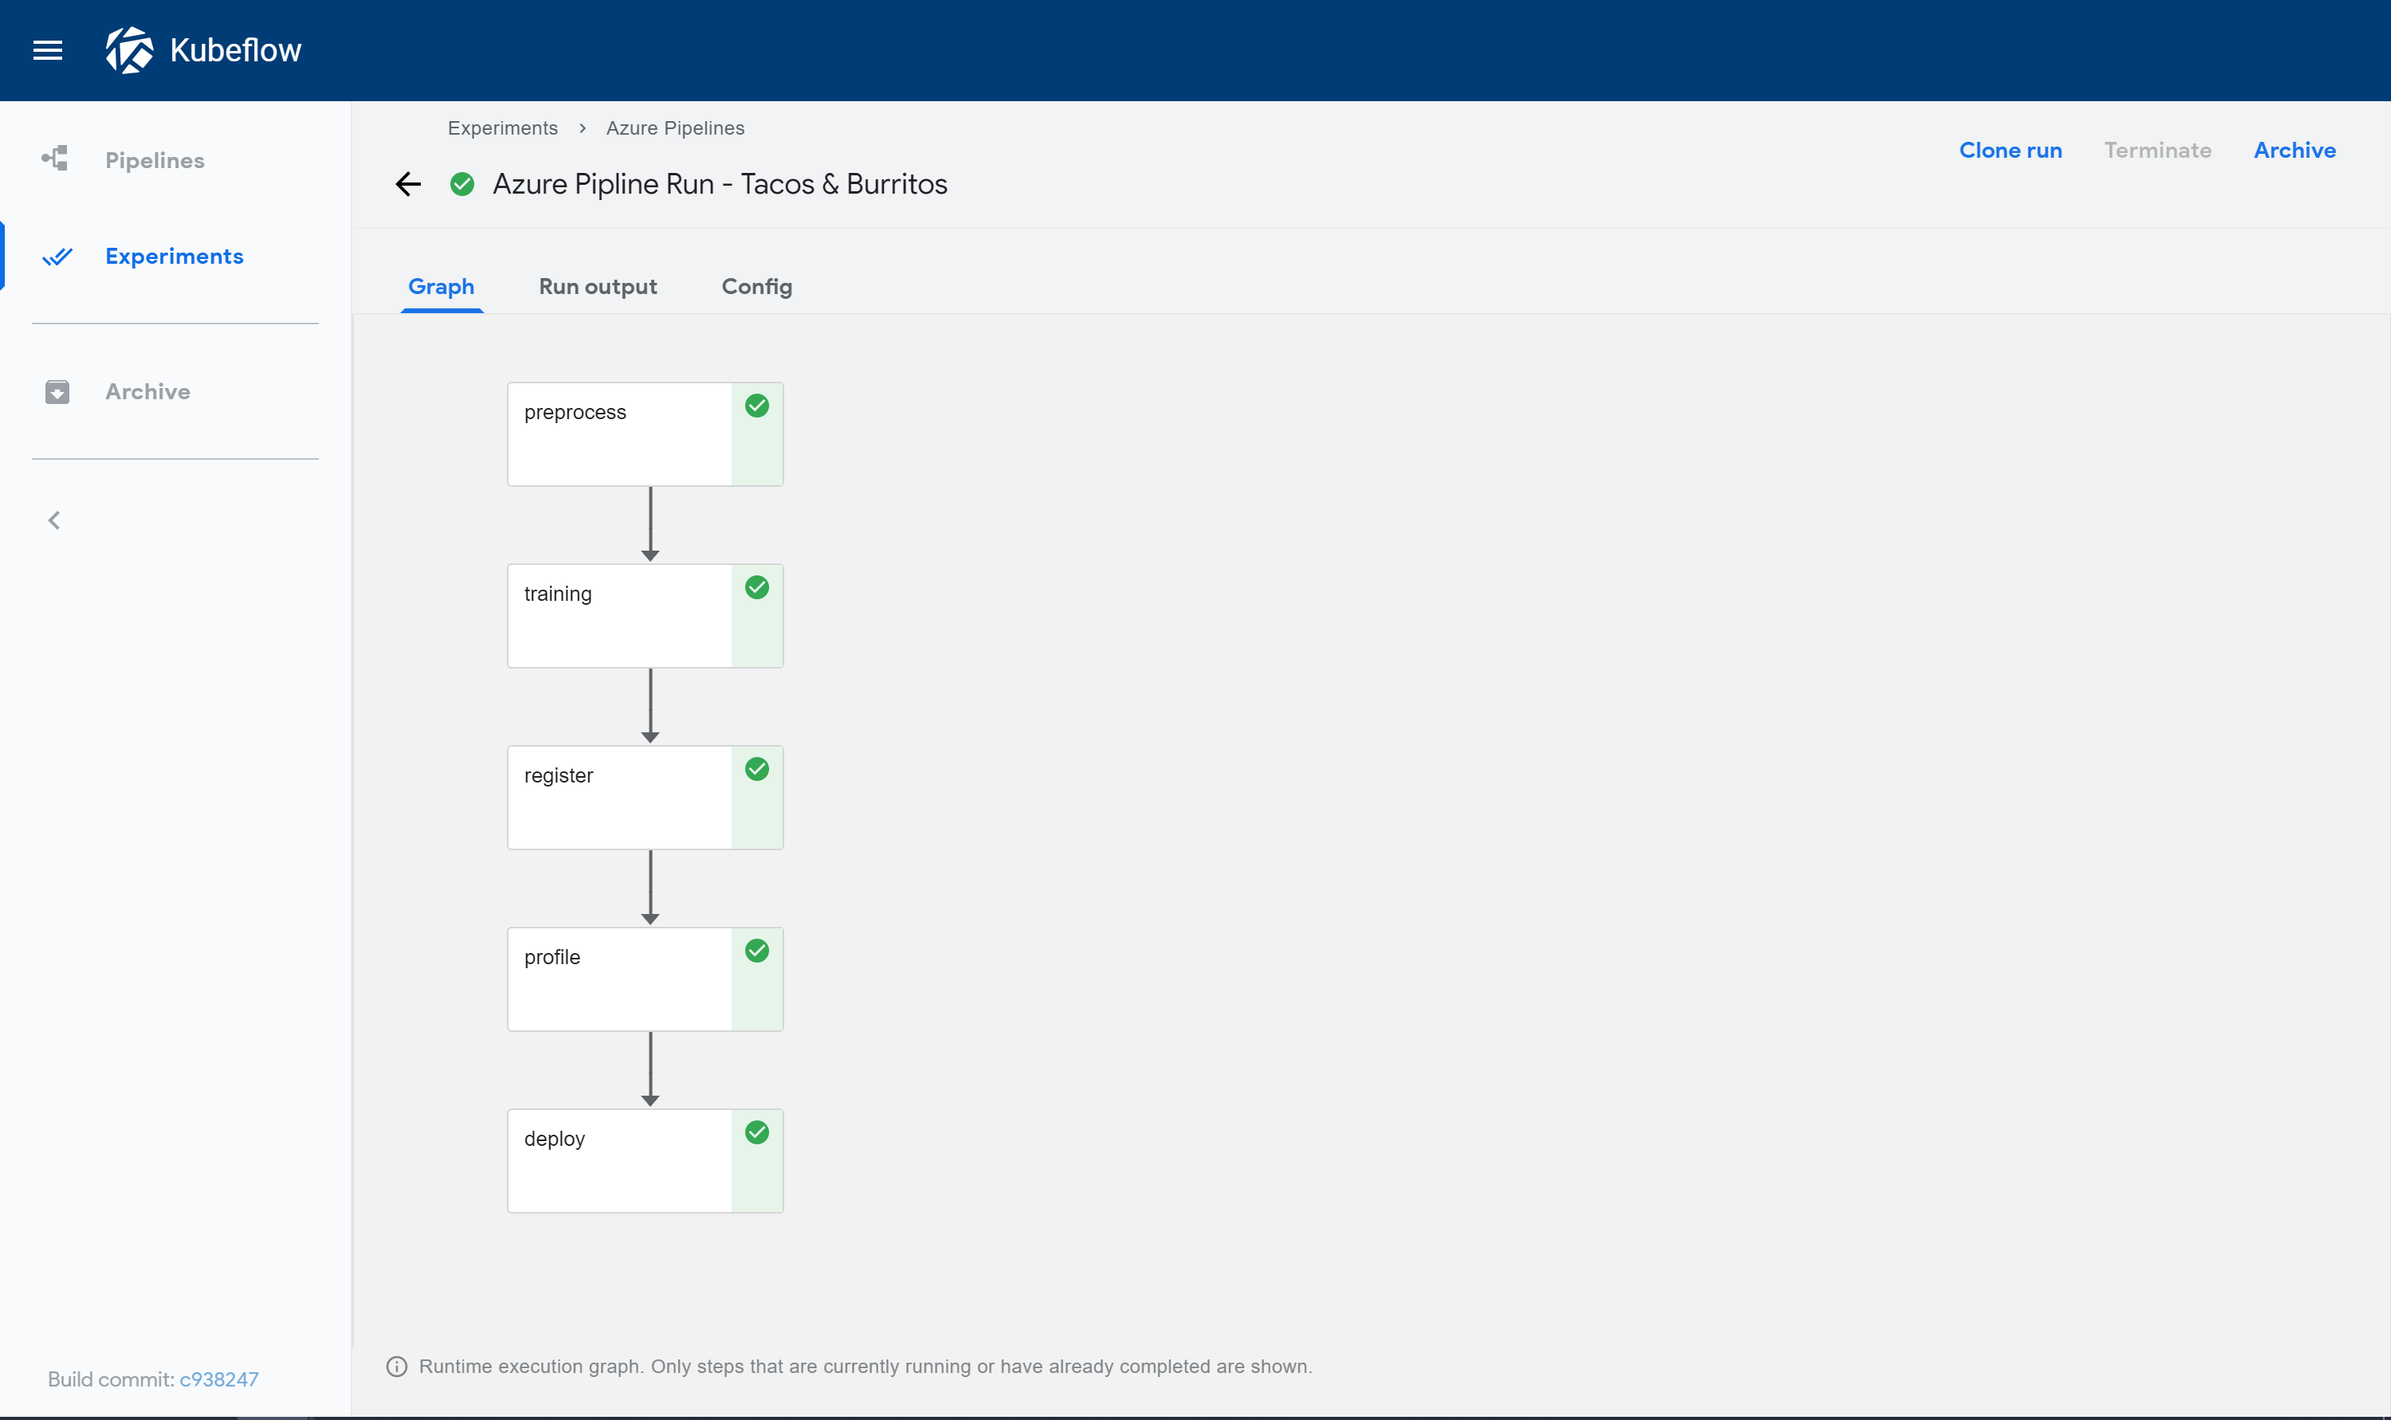
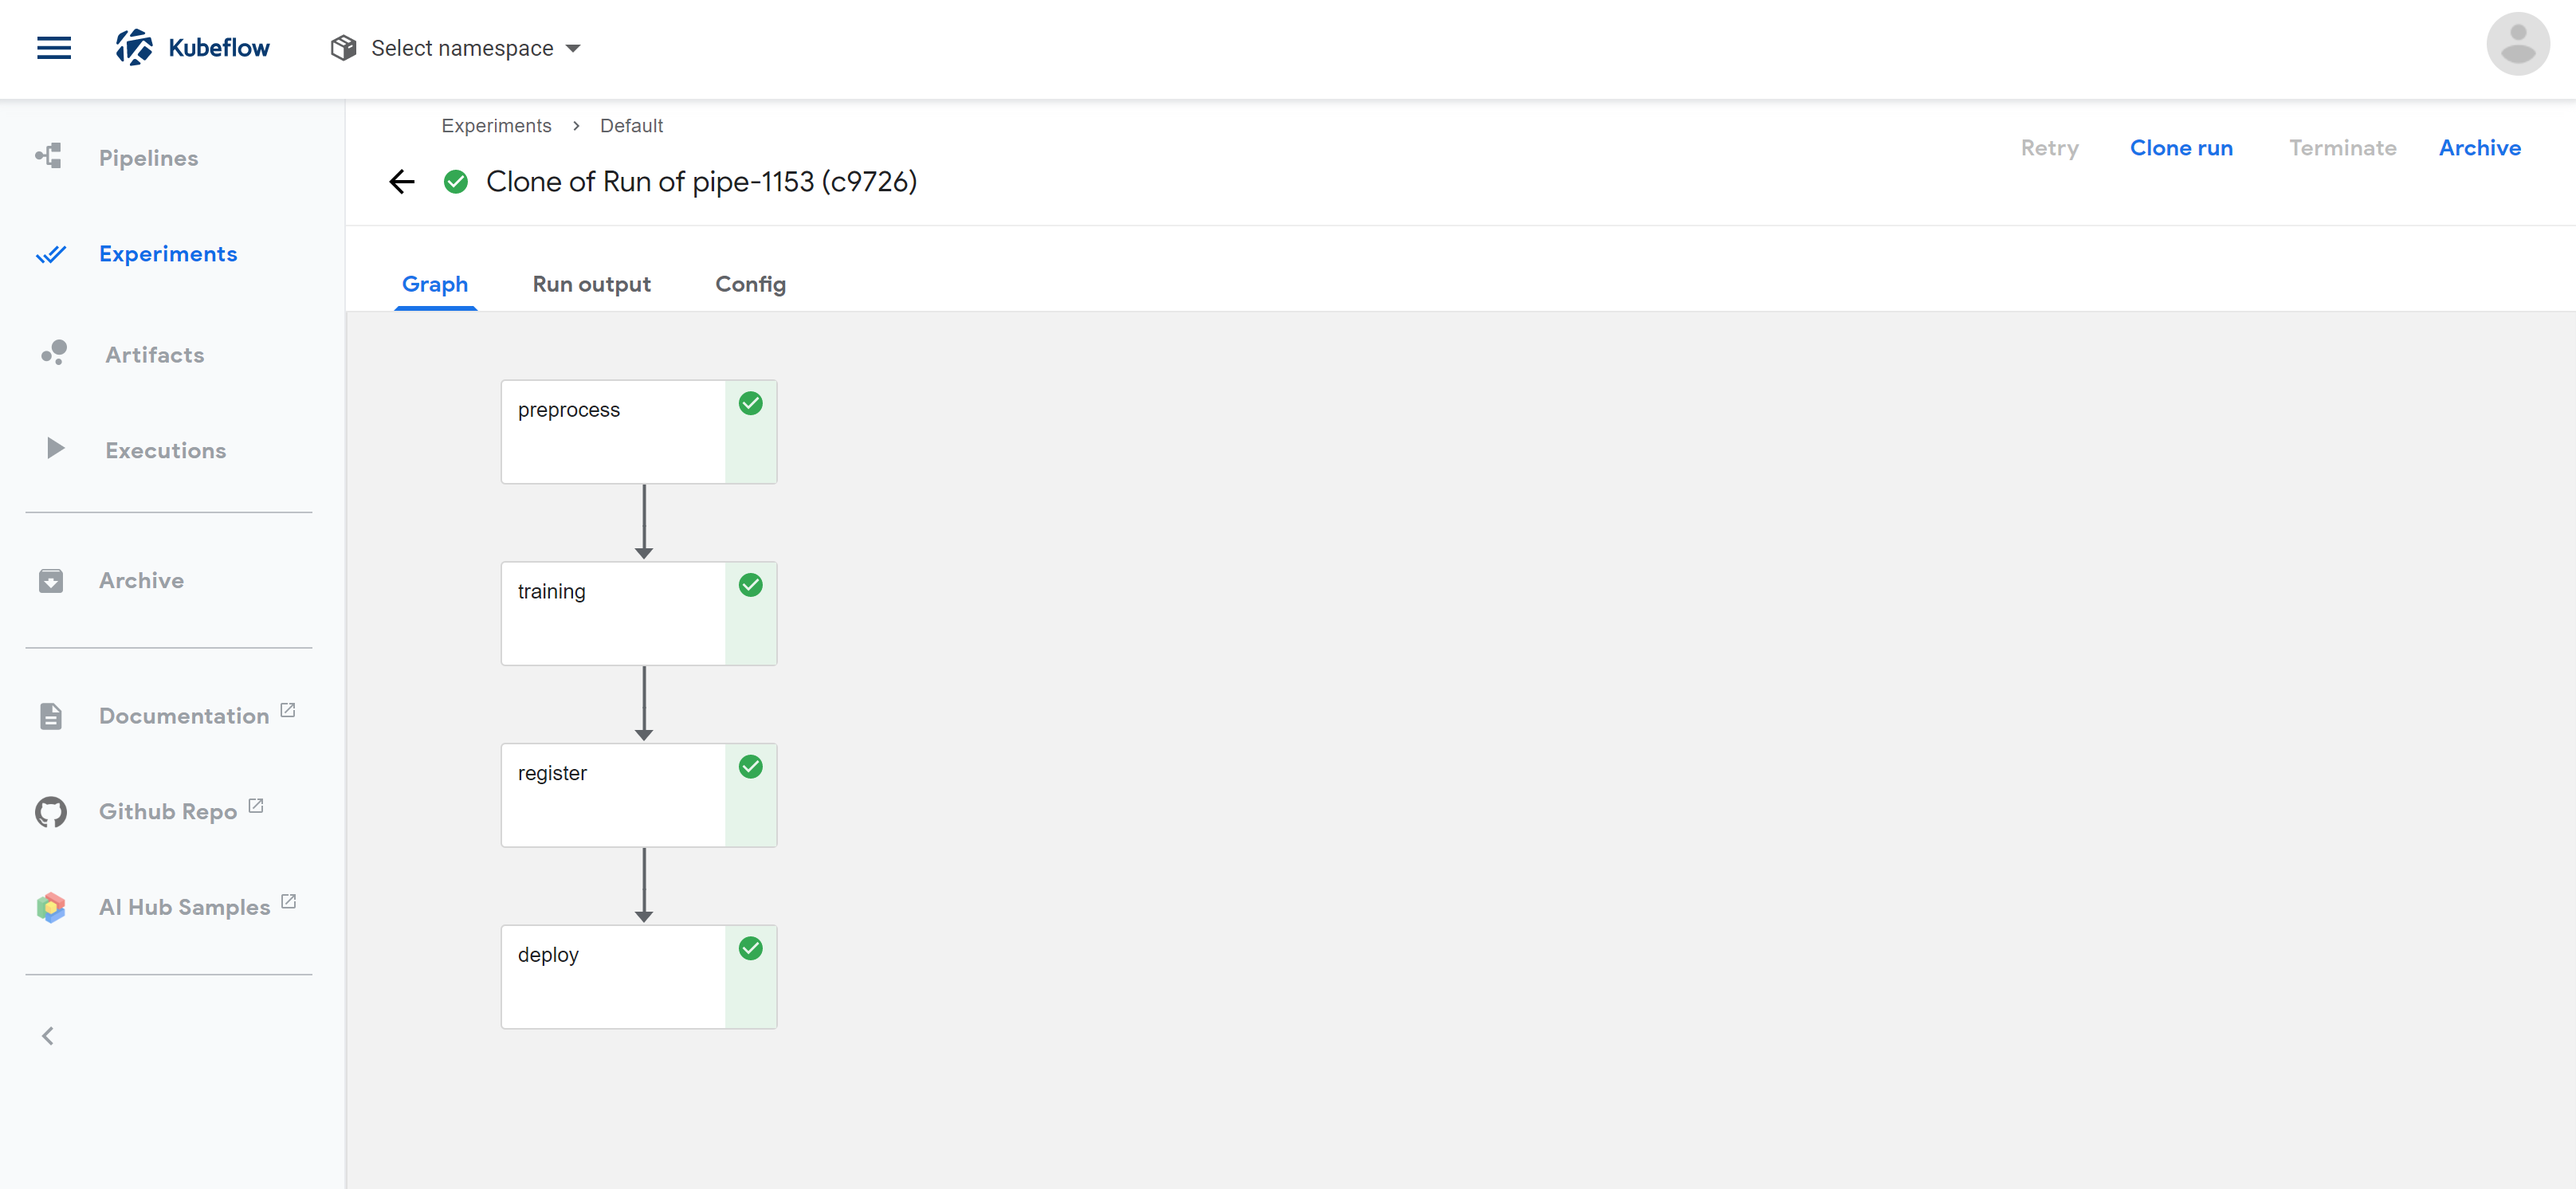
Omartin2010 patch 2 (#1801)
* Update azureEndtoEnd.md

* updated for attach ACR to AKS

* Update azureEndtoEnd.md

* Add files via upload

* grammar

diff --git a/content/docs/azure/azureEndtoEnd.md b/content/docs/azure/azureEndtoEnd.md
@@ -48,7 +48,7 @@ If you don't already have one, create an Azure account. If you have not used Azu
 
 First, install the [Azure CLI](https://docs.microsoft.com/en-us/cli/azure/install-azure-cli?view=azure-cli-latest), then follow the instructions in the [guide to deploying Kubeflow on Azure](https://www.kubeflow.org/docs/azure/deploy/install-kubeflow/).
 
-> Ensure that the agent size you use has the proper memory and storage requirements. For the Azure Pipelines example, **56 GiB** of memory are needed and **premium storage** must be available. Use [this guide](https://docs.microsoft.com/en-us/azure/virtual-machines/windows/sizes) to choose the right agent size for your deployment. (We chose an agent size of Standard_DS13_v2.)
+> Ensure that the agent size you use has the proper memory and storage requirements. For the Azure Pipelines example, most machine sizes will work, but **premium storage** is required. Use [this guide](https://docs.microsoft.com/en-us/azure/virtual-machines/windows/sizes) to choose the right agent size for your deployment. (We chose an agent size of Standard_D4s_v3.)
 
 ## Configuring Azure resources
 ### Create an ML workspace in Azure
@@ -77,6 +77,15 @@ To create a container registry:
 <img src="/docs/azure/images/createContainerReg.PNG"
     alt="Creating a Container Registry"
     class="mt-3 mb-3 p-3 border border-info rounded">
+
+### Allow your AKS Cluster access to your Azure Container Registry
+In order for the AKS cluster to have access to pulling images created for execution of the pipeline, you will need to update your cluster so that it is able to pull the images from the container registry we just created. More references can be found [here](https://docs.microsoft.com/en-us/azure/aks/cluster-container-registry-integration), on the Microsoft web site.
+
+Using a bash shell, use the following commands to attach the container registry created above to your AKS cluster, using the proper AKS cluster name and resource group:
+```
+az aks update -n <myAKSCluster> -g <MyResourceGroup> --attach-acr <REGISTRY_NAME>
+```
+The execution of the command will take a few minutes.
 
 ### Create a persistent volume claim (PVC)
 A persistent volume claim is a dynamically provisioned storage resource attached to a Kubernetes cluster. It is used in the pipeline to store data and files across pipeline steps.
@@ -164,10 +173,6 @@ Each docker image will be built and uploaded to the cloud using the Container Re
 	docker build . -t ${REGISTRY_PATH}/register:${VERSION_TAG}
 	docker push ${REGISTRY_PATH}/register:${VERSION_TAG}
 
-	cd ../profile
-	docker build . -t ${REGISTRY_PATH}/profile:${VERSION_TAG}
-	docker push ${REGISTRY_PATH}/profile:${VERSION_TAG}
-
 	cd ../deploy
 	docker build . -t ${REGISTRY_PATH}/deploy:${VERSION_TAG}
 	docker push ${REGISTRY_PATH}/deploy:${VERSION_TAG}
@@ -191,7 +196,7 @@ Upload the pipeline.tar.gz file to the pipelines dashboard on your Kubeflow depl
     alt="Pipelines input example"
     class="mt-3 mb-3 p-3 border border-info rounded">
 
- The finished pipeline should have five completed steps.
+ The finished pipeline should have four completed steps.
 
  <img src="/docs/azure/images/finishedRunning.PNG"
     alt="Finished Pipeline"
